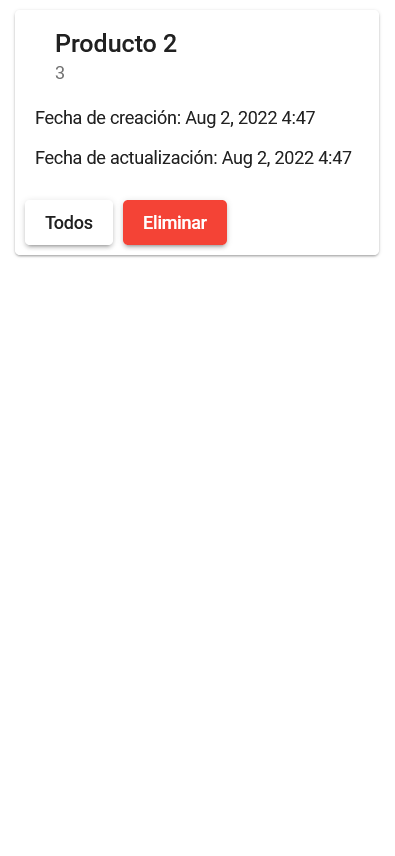
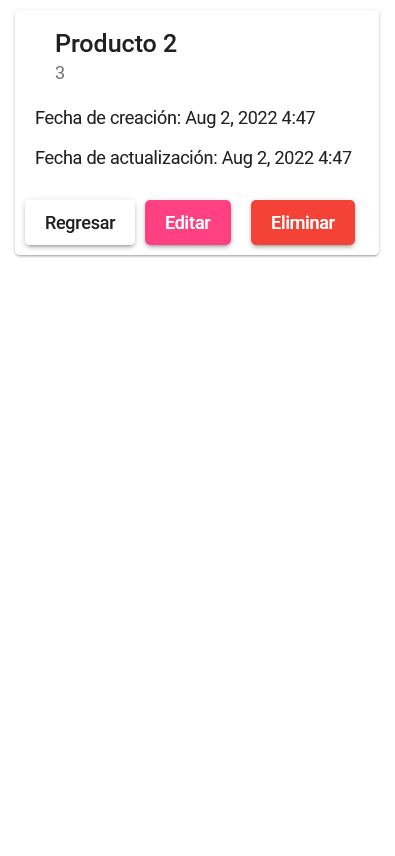
guia19

Changed region(s): [[0.1215, 0.2126, 0.9114, 0.3037]]

diff --git a/guias/guia19.md b/guias/guia19.md
@@ -155,6 +155,74 @@ REST se apoya en HTTP, los verbos que utiliza son exactamente los mismos, con el
 </p>
 
 
+
+Para recibir el parámetro del URL al componente **Producto**
+
+* Modifique el **producto.component.ts**
+
+  + Importe el **ActivatedRoute** 
+
+  ```
+  ...
+  import { ActivatedRoute } from '@angular/router';
+  ...
+  ```
+
+  + Inyecte la dependencia al **ActivatedRoute** en el contructor
+
+  ```
+  ...
+  constructor(private productoService: ProductoService, private activatedRoute: ActivatedRoute) {}
+  ...
+  ```
+
+  + Extraiga el parámetro de la ruta y realice la petición en el método **ngOnInit**
+
+  ```
+  ...
+  ngOnInit(): void {
+
+    let params = this.activatedRoute.snapshot.params;
+    let id = params["id"]
+
+    this.productoService.obtenerProductoPorId(id).subscribe(respuesta => {
+      ...
+    })
+  }
+  ...
+  ```
+
+Para enviar el parámetro del URL al componente **List**
+
+* Modifique el **lista.component.html**
+  
+  Cambie la etiqueta
+
+  ```
+  ...
+  <td mat-cell *matCellDef="let element"> {{element.nombre}} </td>
+  ...
+  ```
+
+  por un enlace
+
+  ```
+  ...
+  <td mat-cell *matCellDef="let element"> 
+    <a [routerLink]="['/producto', element.id]" title="">{{element.nombre}}</a>
+  </td>
+  ...
+  ```
+
+* Compruebe el funcionamiento del servidor, con: **npm start**
+* Acceda al URL `http://localhost:4200/` y seleccione cualquier elemento de la tabla 
+
+<p align="center">
+  <img style="border: 1pt solid black;" width="50%" src="imagenes/angular_producto_lista.png">
+  <img style="border: 1pt solid black;" width="50%" src="imagenes/angular_producto_id3.png">
+</p>
+
+
 ### Términos
 
 API REST
@@ -163,3 +231,5 @@ API REST
 
 * ¿Qué es REST? Conoce su potencia. (2018). Retrieved 9 August 2022, from https://openwebinars.net/blog/que-es-rest-conoce-su-potencia/
 * Using Default values with Interfaces in TypeScript. (2022) Retrieved 9 August 2022, from https://bobbyhadz.com/blog/typescript-interface-default-values
+* What is the activated route?. (2022). Retrieved 9 August 2022, from https://blog.briebug.com/blog/what-is-the-activated-route
+* Singhal, G., & AcitivatedRouteSnapshot, A. (2022). Accessing Route Parameters with ActivatedRoute vs. AcitivatedRouteSnapshot | Pluralsight. Retrieved 9 August 2022, from https://www.pluralsight.com/guides/accessing-route-parameters-with-activatedroute-vs.-acitivatedroutesnapshot
